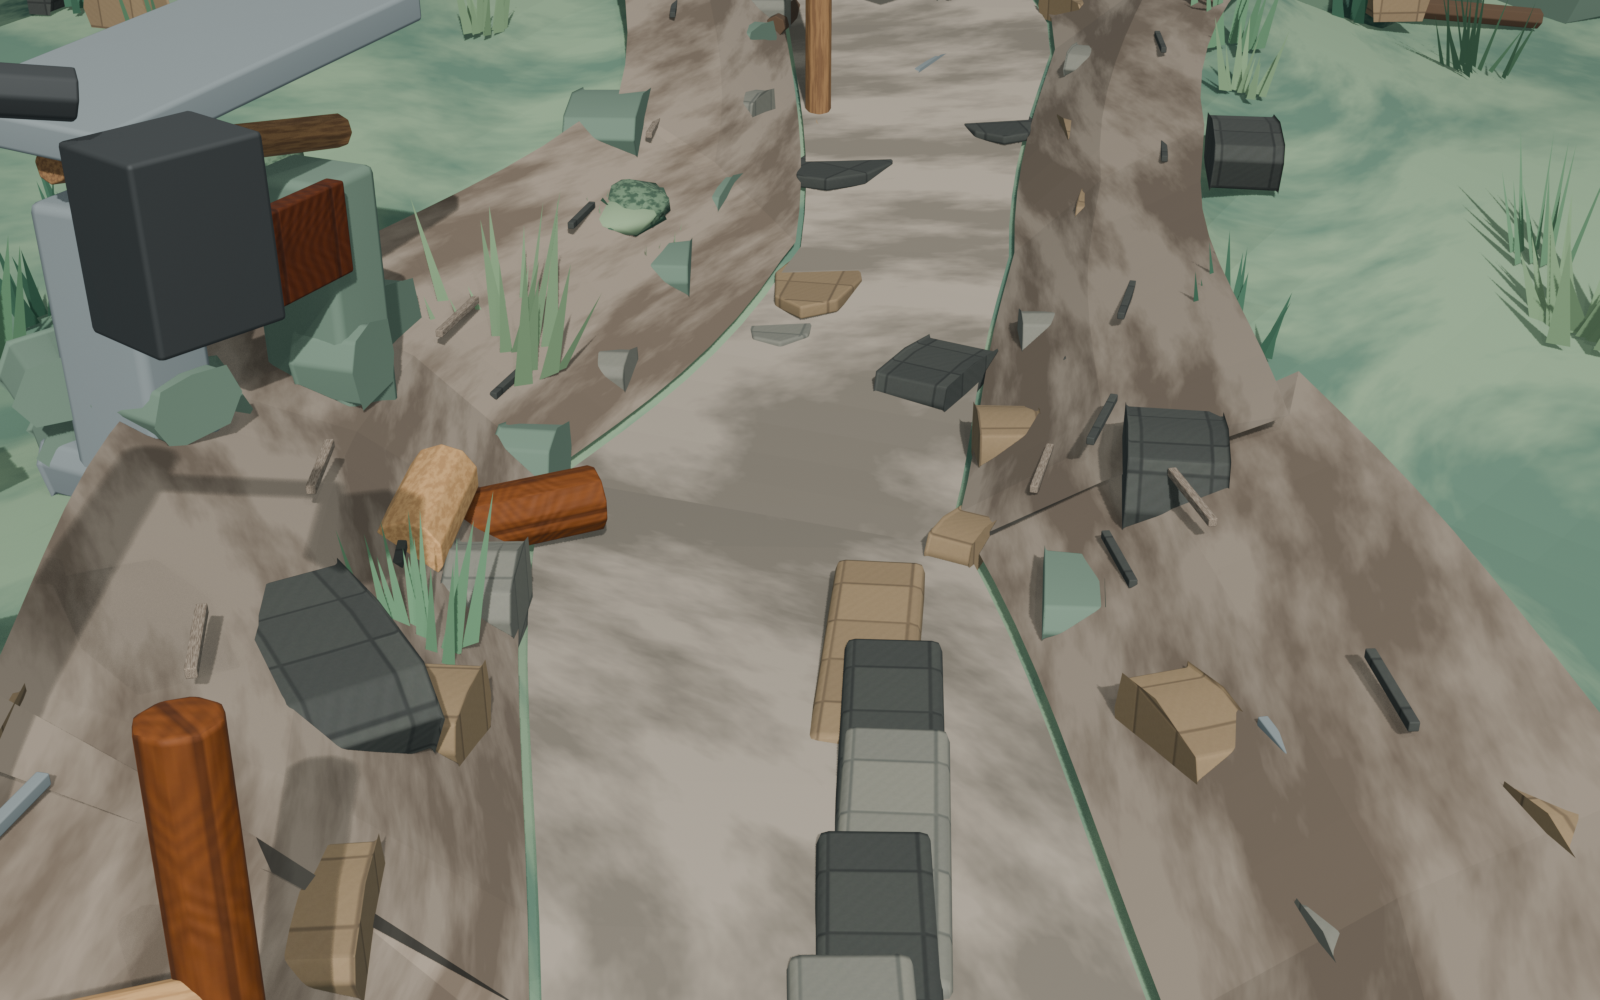
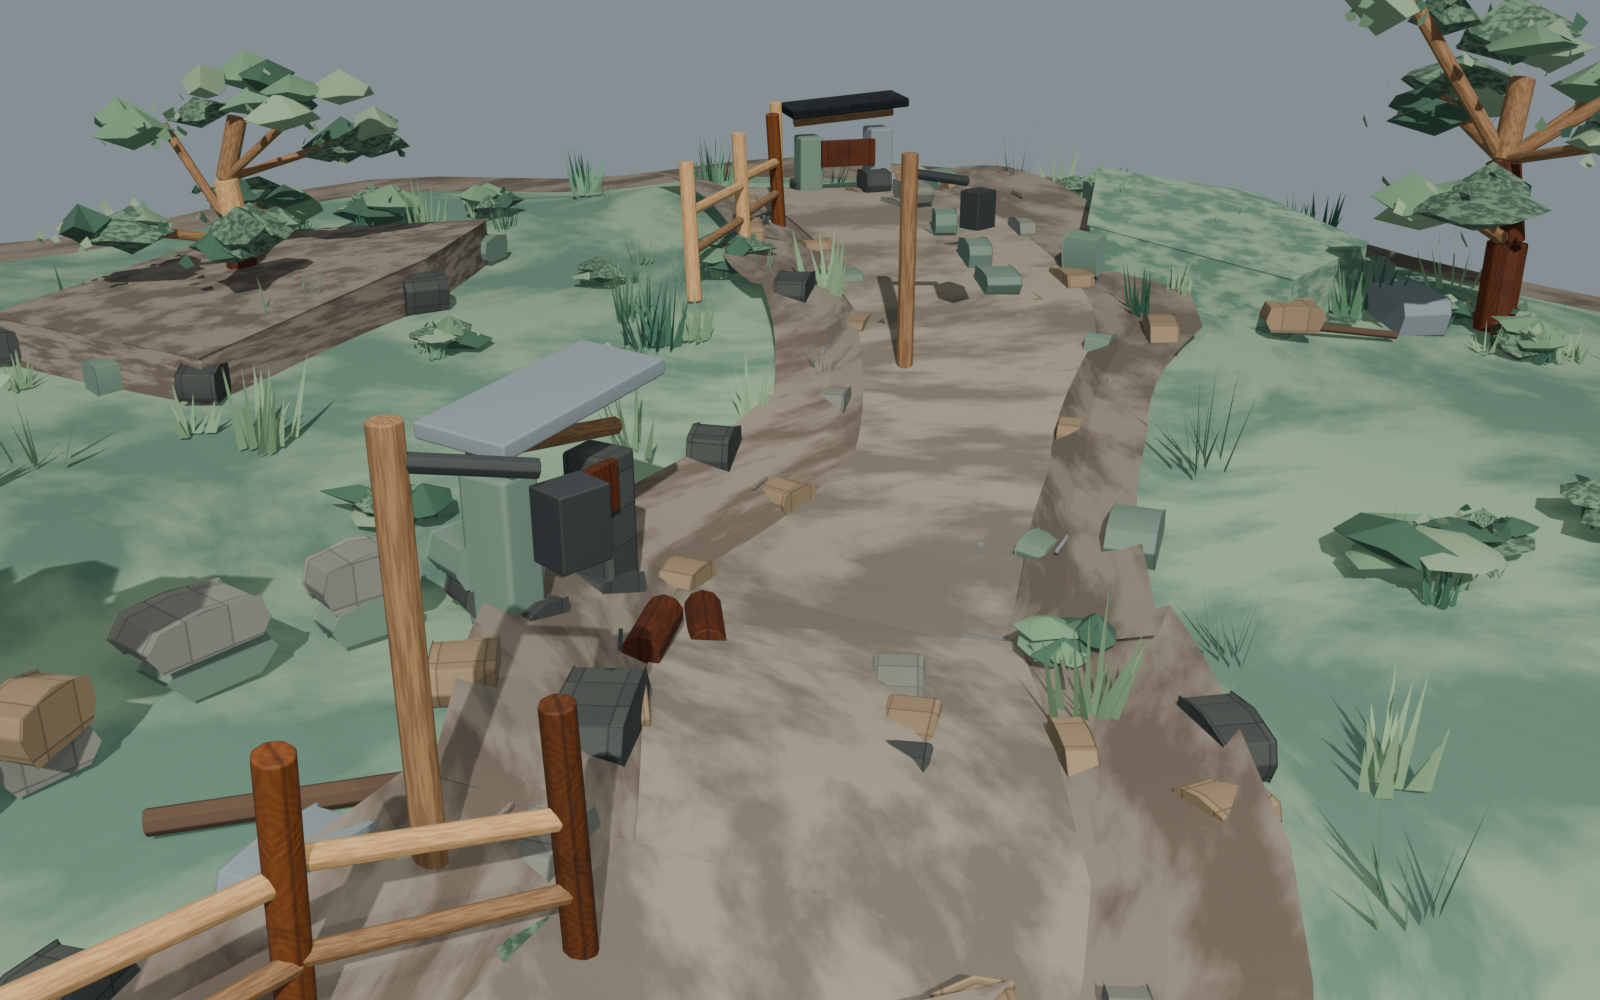
Improve exterior preview framing

diff --git a/src/main.js b/src/main.js
@@ -7,11 +7,13 @@ const container = document.querySelector("#app");
 const loading = document.querySelector("#loading");
 const hudLabel = document.querySelector("#hud-label");
 const assetButton = document.querySelector("#asset-mode");
+const viewButton = document.querySelector("#view-mode");
 const resetButton = document.querySelector("#reset");
 const wireButton = document.querySelector("#wire");
 
 const params = new URLSearchParams(window.location.search);
 const captureMode = params.get("capture") === "1";
+let localViewMode = params.get("view") !== "wide";
 if (captureMode) document.body.classList.add("capture");
 
 const publicUrl = (path) => new URL(path, window.location.href).href;
@@ -97,6 +99,8 @@ function applyAssetUi() {
   const asset = assets[currentAsset];
   hudLabel.textContent = asset.label;
   assetButton.textContent = asset.nextLabel;
+  viewButton.textContent = localViewMode ? "Vue large" : "Vue locale";
+  viewButton.disabled = currentAsset !== "environment";
 }
 
 function frameObject(object) {
@@ -108,16 +112,45 @@ function frameObject(object) {
   target.y += size.y * 0.04;
   const fitDistance = maxDim / (2 * Math.tan(THREE.MathUtils.degToRad(camera.fov) / 2));
   const mobile = window.matchMedia("(max-width: 720px), (pointer: coarse)").matches;
-  const direction = mobile
-    ? new THREE.Vector3(0.72, 0.52, 0.92).normalize()
-    : new THREE.Vector3(0.7, 0.46, 0.78).normalize();
-  const distance = fitDistance * assets[currentAsset].distance * (mobile ? 1.16 : 1.0);
-  camera.position.copy(target).add(direction.multiplyScalar(distance));
+  if (currentAsset === "environment" && localViewMode) {
+    target.set(-0.65, 0.72, 0.92);
+    camera.position.set(mobile ? -5.15 : -6.55, mobile ? 2.85 : 3.32, mobile ? 5.15 : 6.65);
+  } else {
+    const direction = mobile
+      ? new THREE.Vector3(0.72, 0.52, 0.92).normalize()
+      : new THREE.Vector3(0.7, 0.46, 0.78).normalize();
+    const distance = fitDistance * assets[currentAsset].distance * (mobile ? 1.16 : 1.0);
+    camera.position.copy(target).add(direction.multiplyScalar(distance));
+  }
   camera.near = Math.max(0.01, fitDistance / 120);
   camera.far = Math.max(90, fitDistance * 90);
   camera.updateProjectionMatrix();
   controls.target.copy(target);
+  controls.minDistance = Math.max(0.35, maxDim * 0.08);
+  controls.maxDistance = Math.max(24, maxDim * 3.2);
   controls.update();
+}
+
+function tuneEnvironmentMaterial(child) {
+  if (currentAsset !== "environment" || !child.isMesh || !child.material) return;
+  const materials = Array.isArray(child.material) ? child.material : [child.material];
+  const key = `${child.name} ${materials.map((material) => material.name || "").join(" ")}`.toLowerCase();
+  let color = null;
+  if (/organic_blended_edge_ribbon/.test(key)) {
+    child.visible = false;
+    return;
+  }
+  if (/sculpted_terraced_ground|grass_high|grass_low|meadow/.test(key)) color = 0x3d5539;
+  if (/layered_s_curved_dirt_path|path_dirt|path_dry/.test(key)) color = 0x675846;
+  if (/cut_earth_path_embankment|earth_bank/.test(key)) color = 0x4e4034;
+  if (/stone|cobble|slab|rock/.test(key)) color = 0x686b64;
+  if (/leaf|moss|bush|canopy/.test(key)) color = 0x314f32;
+  if (!color) return;
+  for (const material of materials) {
+    if (material.color) material.color.setHex(color);
+    material.roughness = Math.min(1, material.roughness ?? 0.9);
+    material.needsUpdate = true;
+  }
 }
 
 function loadAsset() {
@@ -149,6 +182,7 @@ function loadAsset() {
         if (!child.isMesh) return;
         child.castShadow = true;
         child.receiveShadow = true;
+        tuneEnvironmentMaterial(child);
         if (child.material) {
           const materials = Array.isArray(child.material) ? child.material : [child.material];
           for (const material of materials) {
@@ -190,6 +224,18 @@ assetButton.addEventListener("click", () => {
   next.searchParams.set("v", String(Date.now()));
   window.history.replaceState(null, "", next);
   loadAsset();
+});
+
+viewButton.addEventListener("click", () => {
+  if (currentAsset !== "environment") return;
+  localViewMode = !localViewMode;
+  const next = new URL(window.location.href);
+  if (localViewMode) next.searchParams.delete("view");
+  else next.searchParams.set("view", "wide");
+  next.searchParams.set("v", String(Date.now()));
+  window.history.replaceState(null, "", next);
+  applyAssetUi();
+  if (model) frameObject(model);
 });
 
 wireButton.addEventListener("click", () => {

diff --git a/src/styles.css b/src/styles.css
@@ -90,6 +90,11 @@ button:hover {
   background: rgb(14 18 20 / 0.9);
 }
 
+button:disabled {
+  opacity: 0.46;
+  cursor: default;
+}
+
 #loading {
   inset: 0;
   display: grid;

diff --git a/index.html b/index.html
@@ -11,6 +11,7 @@
     <div class="hud"><span class="dot"></span><span id="hud-label">Extérieur sculpté</span></div>
     <div class="buttons">
       <button id="asset-mode" type="button">Kit extérieur</button>
+      <button id="view-mode" type="button">Vue large</button>
       <button id="reset" type="button">Reset</button>
       <button id="wire" type="button">Wire</button>
     </div>